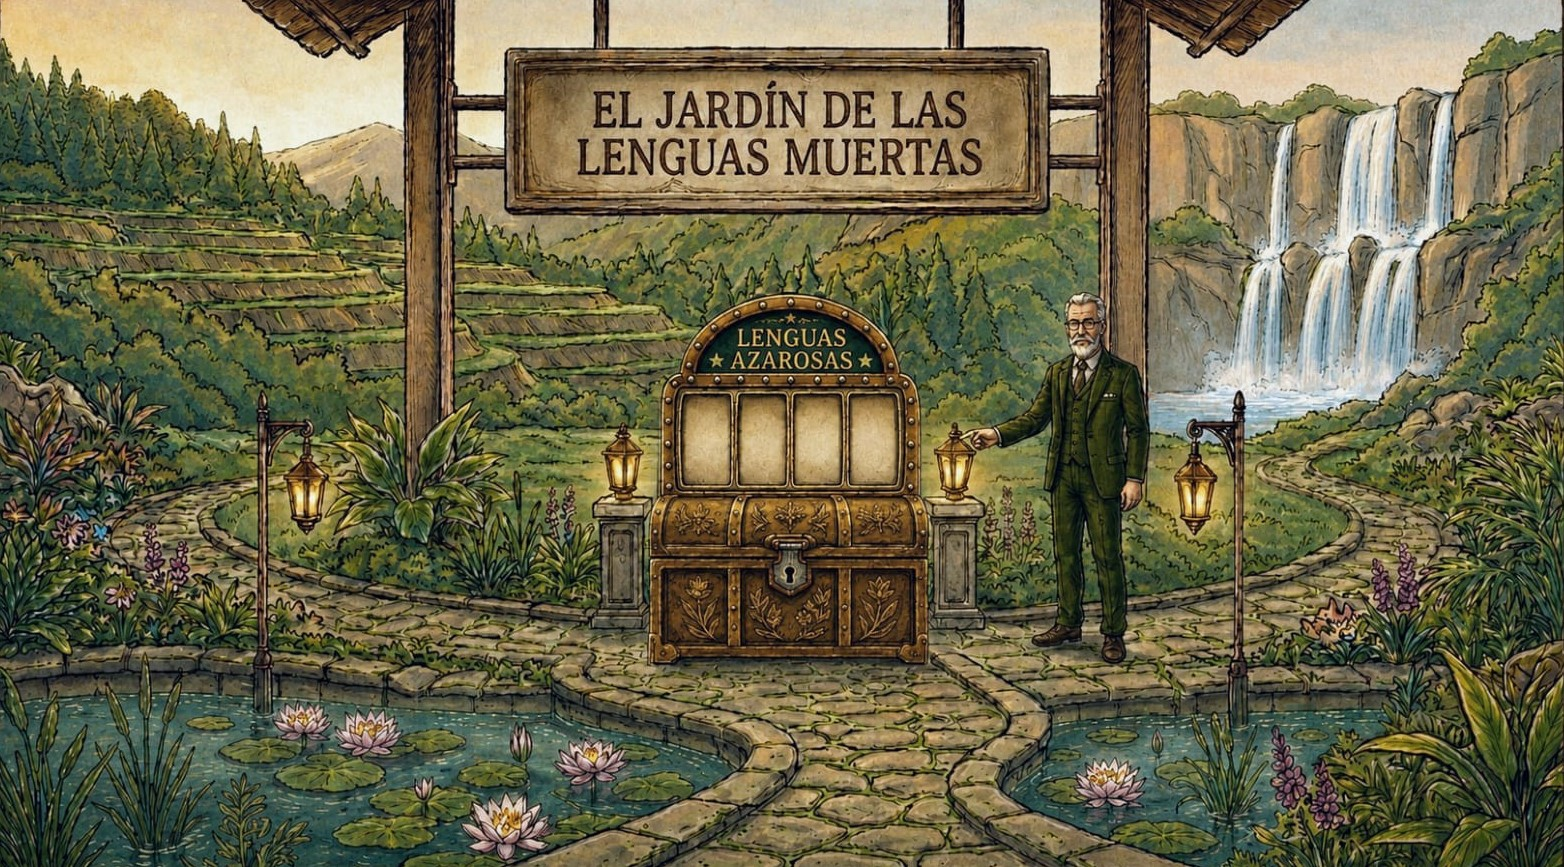
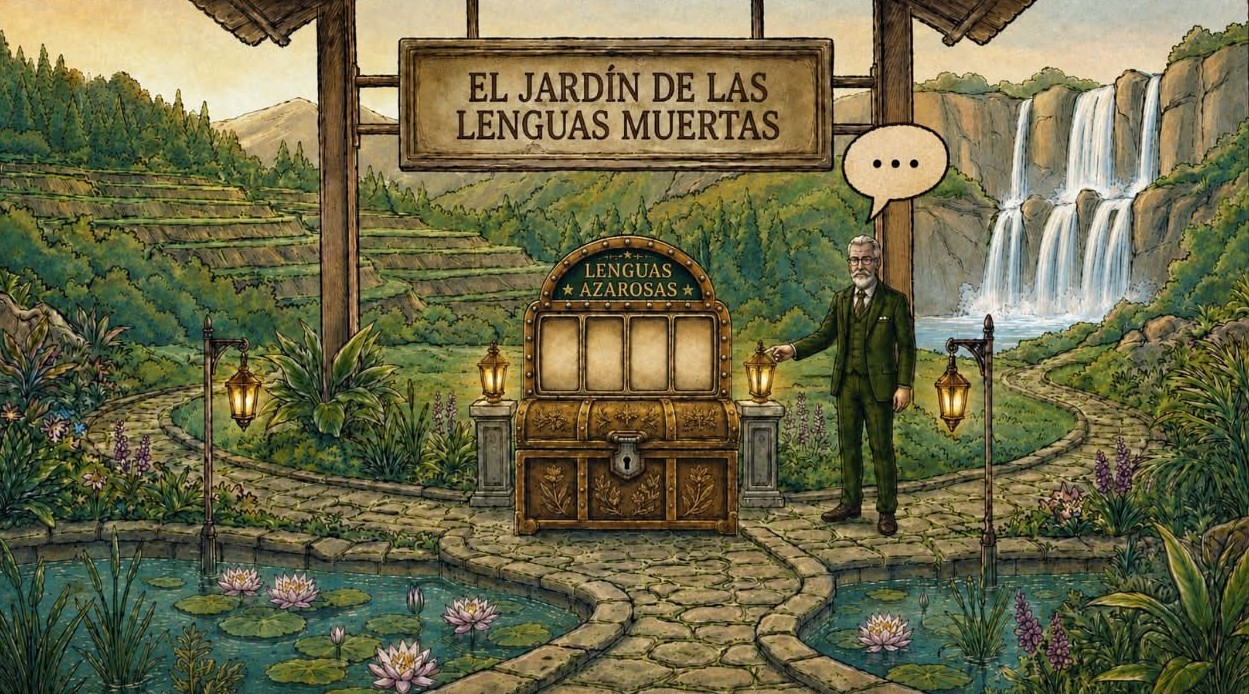
imageness

diff --git a/Clases_POO.py b/Clases_POO.py
@@ -338,7 +338,7 @@ class Imagenes():
         self.charla9 = self.cargar("visual/charla9.png",1400,800)
         self.charla10 = self.cargar("visual/charla10.jpeg",1400,800)
         self.charla11 = self.cargar("visual/charla11.jpeg",1400,800)
-        self.maquinista1 = self.cargar("visual/maquinista1.jpg",1400,800)
+        self.maquinista1 = self.cargar("visual/maquinista1.jpeg",1400,800)
         self.maquinista2 = self.cargar("visual/maquinista2.jpeg",1400,800)
 
         #-------------- OBJETOS QUE CONSIGUE EL USUARIO ------------------------------
@@ -359,6 +359,7 @@ class Imagenes():
         self.cofre_semilla = self.cargar("visual/cofre_semilla.jpeg",1400,800)
         self.cofre_vacio = self.cargar("visual/cofre_vacio.jpeg",1400,800)
         self.gracias1 = self.cargar("visual/gracias1.jpeg",1400,800)
+        self.acertijo_viejo = self.cargar("visual/acertijo_viejo.png",1400,800)
 
         #HOJAS DEL INVERNADERO
         self.hoja_A = self.cargar("visual/hoja_A.jpg",600,400)
@@ -386,6 +387,7 @@ class Imagenes():
         self.gracias2 = self.cargar("visual/gracias2.jpeg",1400,800)
         self.maquinista_fusible = self.cargar("visual/cabina2_hablando.jpeg",1400,800)
         self.archivo2_viejo = self.cargar("visual/archivo2_viejo2.jpeg",1400,800)
+        self.viejo_pista2 = self.cargar("visual/viejo_pista_2.jpeg",1400,800)
 
         #BIBLIOTECA
         self.puerta = self.cargar("visual/biblioteca_sumergido.jpeg",1400,800)
@@ -416,6 +418,7 @@ class Imagenes():
         self.gracias3 = self.cargar("visual/gracias3.jpeg",1400,800)
 
         #CAMINOS
+        self.viejo_pista3 = self.cargar("visual/viejo_pista_3.jpeg",1400,800)
         self.flechas_ciudad_invertida = self.cargar("visual/flechas_ciudad_invertida.jpeg",1400,800)
         self.camino1 = self.cargar("visual/camino1_ciudad_invertida.jpeg",1400,800)
         self.camino2 = self.cargar("visual/camino2_ciudad_invertida.jpeg",1400,800)

diff --git a/EL_parador_POO.py b/EL_parador_POO.py
@@ -147,7 +147,7 @@ imagenes_objetos = {
     "osito_objeto": imagenes.osito_transp}
 
 #----------INICIO DEL PROGRAMA-------------------------------------------------------------------------------
-pantalla_actual = "ciudad_invertida" #+++++++++++++++++++++++++++++++++++++++++++++++++++++++++++++++++++++++++++++++++++++++++++
+pantalla_actual = "estacion4" #+++++++++++++++++++++++++++++++++++++++++++++++++++++++++++++++++++++++++++++++++++++++++++
 tiempo_carga = 0
 tiempo_historia = 0
 tiempo_comienzo = 0
